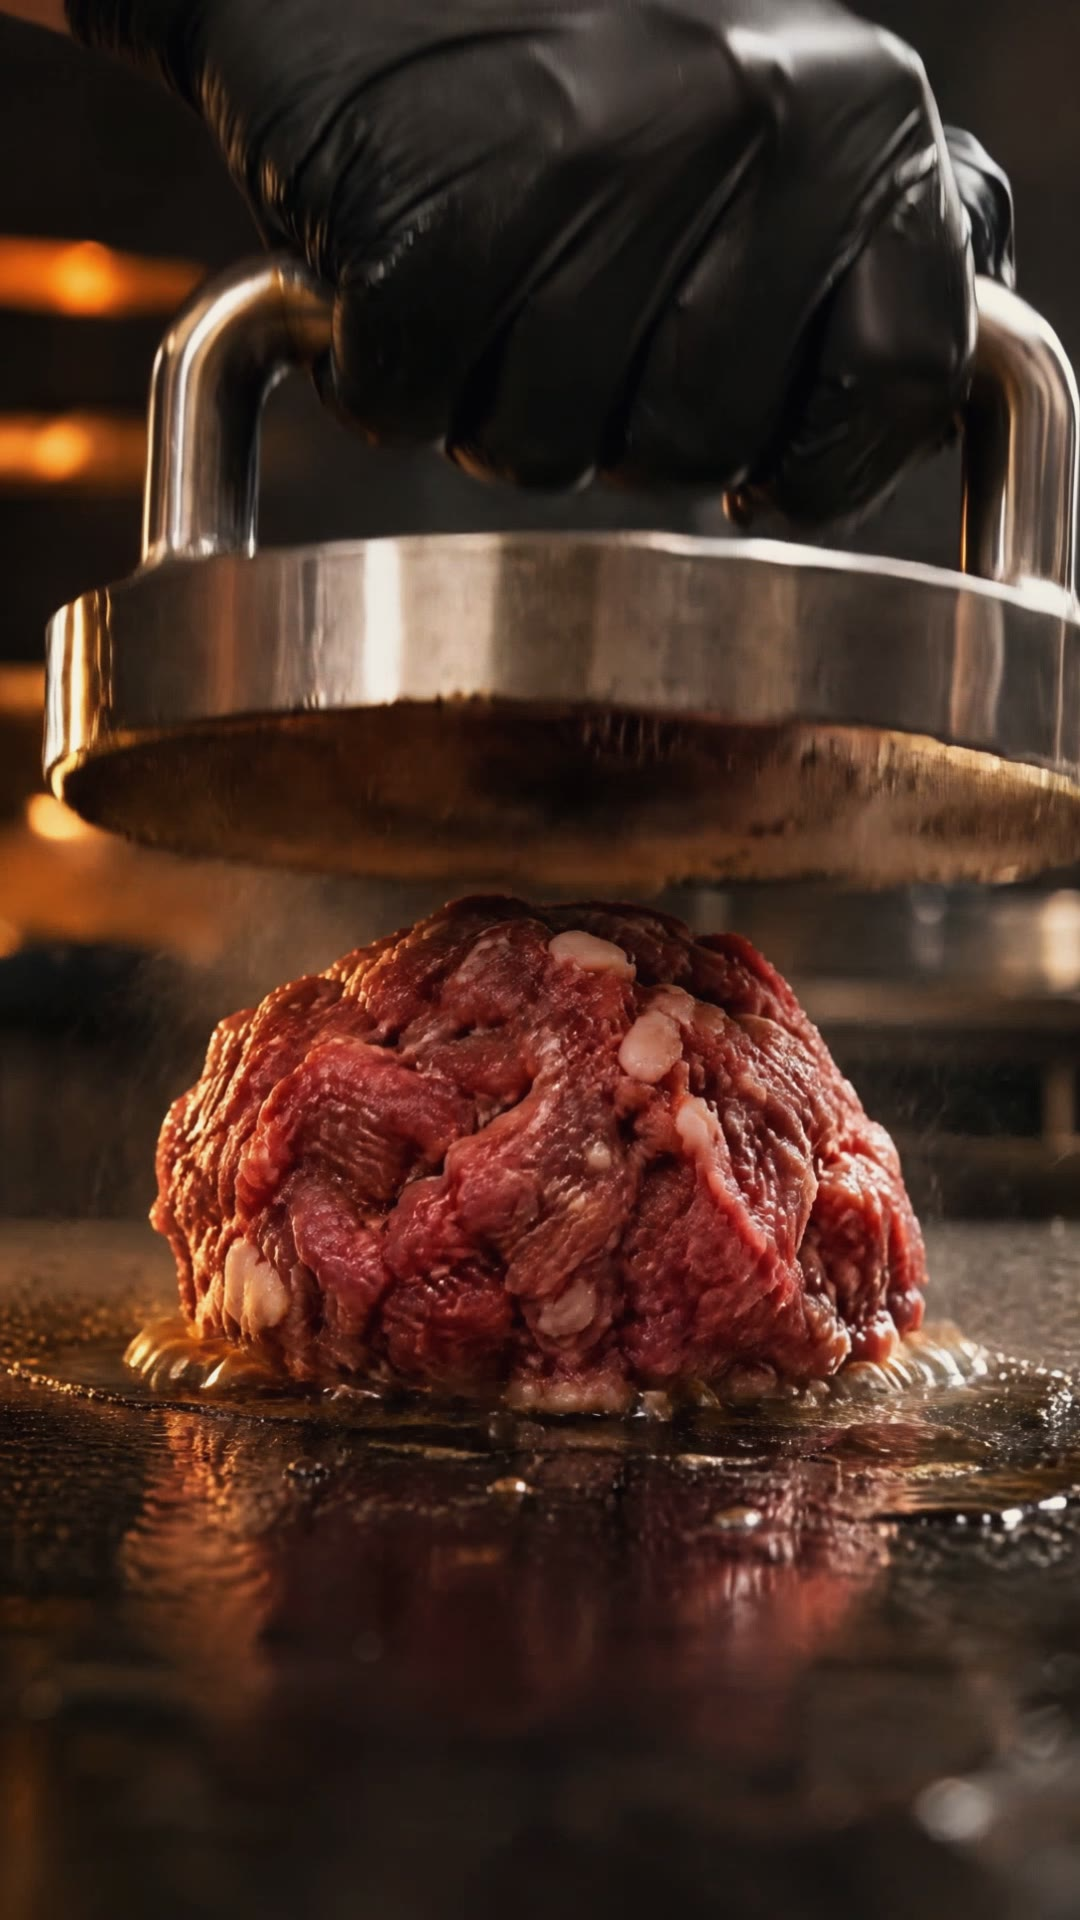
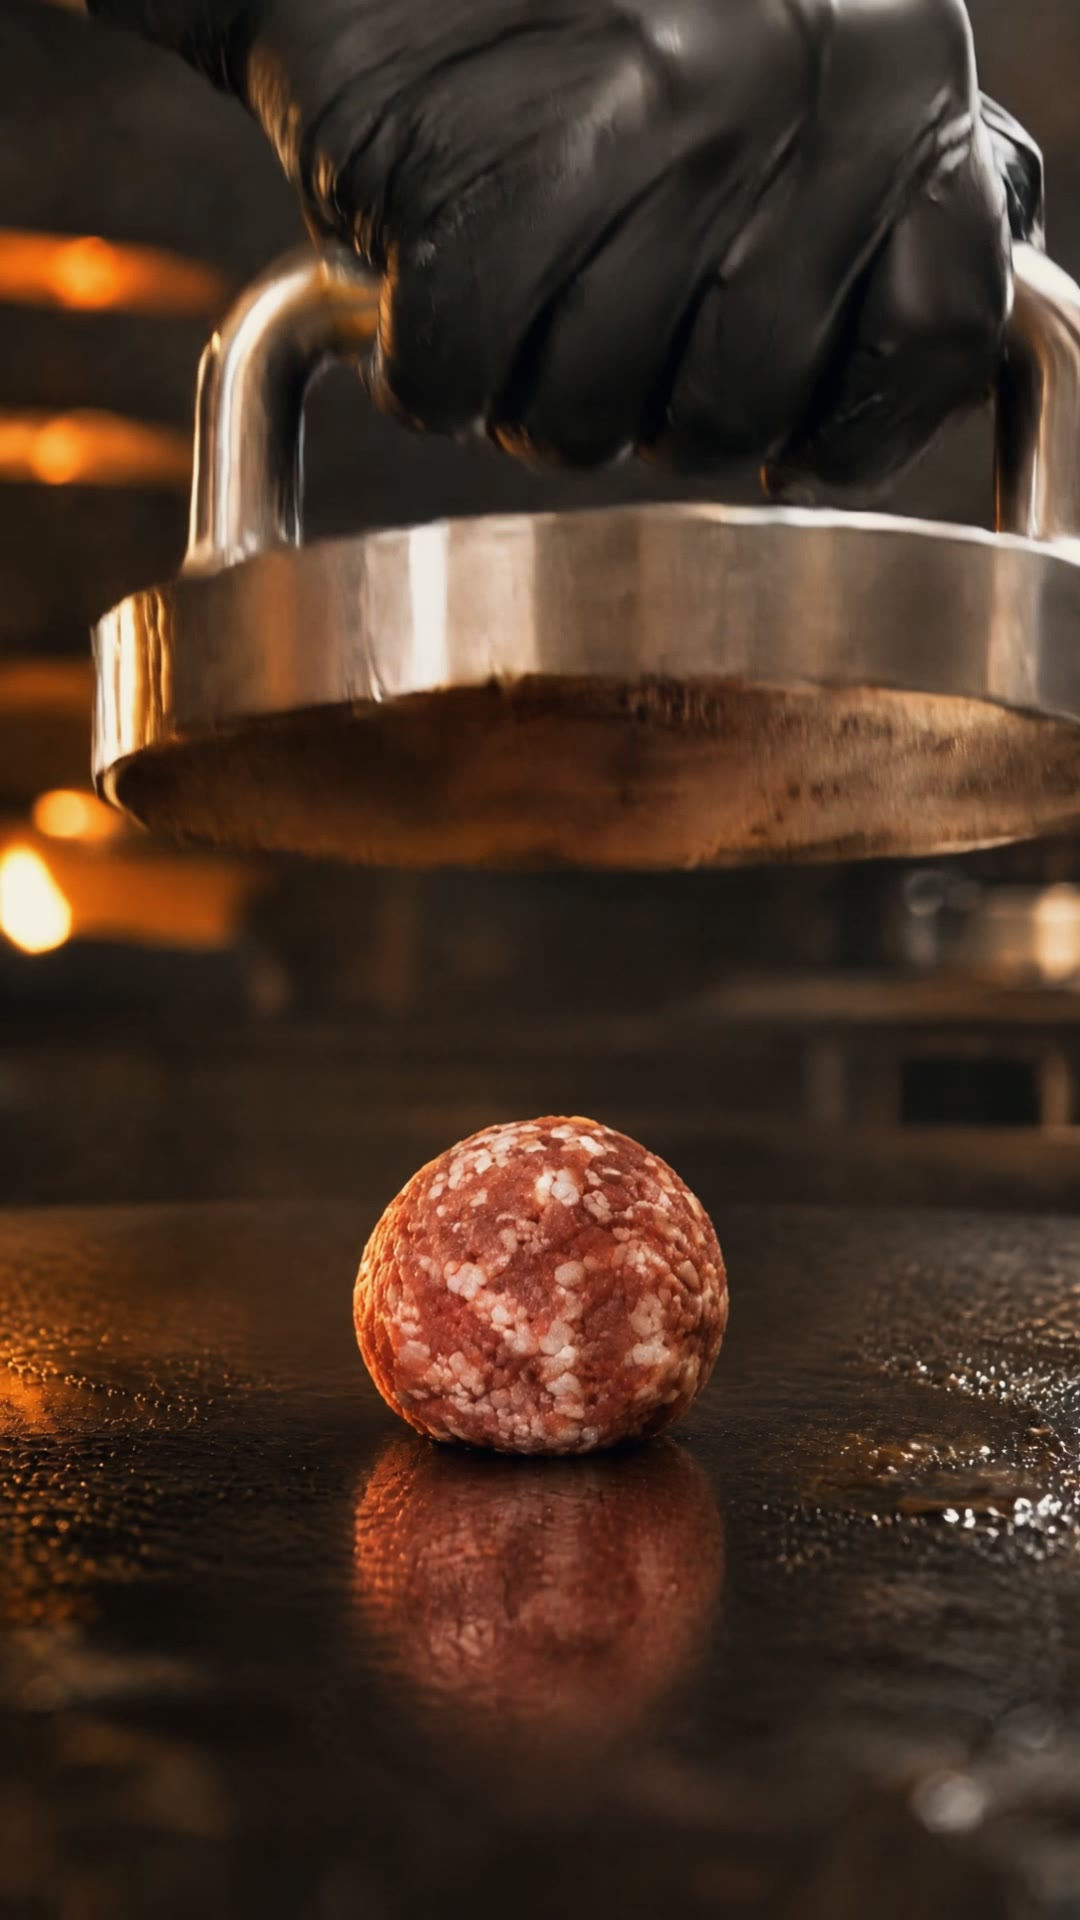
TASH: propagation in progress
Claude-Session: https://claude.ai/code/session_01V6x5TZsAm6X1rqhwpVNZeb

diff --git a/tash/04-launch-ad/src/main.js b/tash/04-launch-ad/src/main.js
@@ -38,7 +38,8 @@ const LY = V ? {
   sting: { logoW: 560, cy: 0.42 },
 };
 // vertical focus used when 1080×1920 footage is cover-cropped into 4:5 (0 = keep top, 1 = keep bottom)
-const FY = { HOOK: 0.20, GLORY: 0.52, BURGER: 0.62, COFFEE: 0.26, RING: 0.36, SPRAY: 0.40, PROD: 0.52, EDIT: 0.5, DIWAN: 0.22, CAFE: 0.30, CAR: 0.24, ASK: 0.12 };
+// COFFEE and RING share one focus so the cup-rim → ring match cut lands on the same pixels in 4:5 too (rim ≈ 524,506)
+const FY = { HOOK: 0.20, GLORY: 0.52, BURGER: 0.62, COFFEE: 0.26, RING: 0.26, SPRAY: 0.40, PROD: 0.52, EDIT: 0.5, DIWAN: 0.22, CAFE: 0.30, CAR: 0.24, ASK: 0.12 };
 const fy = id => (V ? 0.5 : FY[id] ?? 0.5);
 
 // ---------------------------------------------------------------------------------------------- canvas helpers
@@ -161,7 +162,7 @@ const edName = el('div', 'tl', ed, 'TASH_LAUNCH_v12 · 9:16 · 30P'); css(edName
 const TRK = { v2: 78, v1: 120, a1: 206 }, TH = { v2: 30, v1: 72, a1: 64 }, TX0 = 92, TW = LY.ed.w - TX0 - 28;
 for (const [k, lab] of [['v2', 'V2'], ['v1', 'V1'], ['a1', 'A1']]) { const l = el('div', 'tl', ed, lab); css(l, { left: '28px', top: (TRK[k] + TH[k] / 2 - 9) + 'px' }); }
 const ED_CLIPS = [ // the montage, as clips on V1 (widths ∝ duration)
-  ['layl-final_3.00-6.00', 30, 2.0], ['stakk-crown_7.80-9.60', 40, 1.5], ['habba-pour_5.00-6.60', 44, 1.0], ['ring', 20, 1.25], ['layl-spray_6.00-8.00', 30, 2.25],
+  ['layl-final_3.00-6.00', 30, 2.0], ['stakk-crown_7.90-9.40', 37, 1.5], ['habba-pour_5.9667-6.9667', 29, 1.0], ['ring', 20, 1.25], ['layl-spray_6.00-8.00', 30, 2.25],
   ['layl-wire_3.00-6.00', 20, 0.9], ['layl-clay_3.00-6.00', 30, 0.9], ['layl-final_10.50-12.60', 30, 1.4],
 ];
 const edTot = ED_CLIPS.reduce((a, c) => a + c[2], 0);
@@ -288,7 +289,7 @@ function burnFx(k) { // light-sweep burn: the frame burns out (brighter, flatter
 }
 async function drawRing(t) {
   const s = S.RING;
-  try { full(await clip(s, t), 'RING'); } catch { ink(); g.fillStyle = '#c9a24a'; g.beginPath(); g.arc(540, 570, 390, 0, 7); g.lineWidth = 60; g.strokeStyle = '#c9a24a'; g.stroke(); }
+  try { full(await clip(s, t), 'RING'); } catch { ink(); g.fillStyle = '#c9a24a'; g.beginPath(); g.arc(524, 654, 280, 0, 7); g.lineWidth = 60; g.strokeStyle = '#c9a24a'; g.stroke(); }
 }
 async function drawSpray(t) {
   const s = S.SPRAY, img = await clip(s, t);

diff --git a/tash/04-launch-ad/src/built/ring/ring.js b/tash/04-launch-ad/src/built/ring/ring.js
@@ -7,9 +7,12 @@ import { boot, E, clamp, lerp } from '/_system/motion/kit.js';
 
 const q = new URLSearchParams(location.search);
 const W = 1080, H = 1920, DUR = 1.8;
-// match-cut handoff: at t=0 the band's outer edge sits exactly on the cup rim of the previous shot
-// (HABBA pour, measured: centre 560,570 · Ø ≈ 780 px), then settles to the hero framing with an expo tail.
-const A = { cx: 560, cy: 570, r: 390 }, B = { cx: 540, cy: 800, r: 318 };
+// match-cut handoff: at t=0 the band's outer edge sits exactly on the cup rim of the previous shot, then settles to
+// the hero framing with an expo tail. Rim = the photoreal HABBA exit frame (clean f208, launch 5.967), least-squares
+// fit of the cup's outer lip: centre 524,654 · r ≈ 310 px (HABBA hand-off: ≈ 518,658 · r ≈ 312). This is the hand-off's
+// "RING ×0.80, moved ≈ (−46, +98)" done in the ring's own camera, so the plate stays full-frame and sharp.
+// (v1, CGI HABBA: centre 560,570 · r 390.)
+const A = { cx: 524, cy: 654, r: 310 }, B = { cx: 540, cy: 800, r: 318 };
 const PXU = 1920 / (2 * Math.tan(THREE.MathUtils.degToRad(15))); // px per world unit at distance 1 (fov 30)
 
 const renderer = new THREE.WebGLRenderer({ antialias: true, preserveDrawingBuffer: true });

diff --git a/tash/05-concept-ads/02-burger-stakk/src/tools/conform.py b/tash/05-concept-ads/02-burger-stakk/src/tools/conform.py
@@ -34,10 +34,10 @@ BRAND_RED = np.array([226, 59, 46], np.float32) / 255    # #E23B2E
 LOOK = dict(sat=0.93, contrast=0.012, knee=0.84)
 # stage-red sample regions (source px) for the clips shot on the red seamless
 STAGE = {'b3_heel': (100, 100, 980, 700), 'b6_sauce': (0, 0, 200, 500), 'b7_crown': (100, 100, 980, 500)}
-DARK = {'b1_smash', 'b2_crust', 'b4_melt', 'b5_stack'}
+DARK = {'b1_smash_v3', 'b2_crust', 'b4_melt', 'b5_stack'}
 # the frame each clip's correction is measured on (clean stage, nothing falling through the sample region),
 # so every sequence cut from the same clip gets identical numbers
-REF = {'b1_smash': 40, 'b2_crust': 60, 'b3_heel': 30, 'b4_melt': 60, 'b5_stack': 0, 'b6_sauce': 60, 'b7_crown': 60}
+REF = {'b1_smash_v3': 40, 'b2_crust': 60, 'b3_heel': 30, 'b4_melt': 60, 'b5_stack': 0, 'b6_sauce': 60, 'b7_crown': 60}
 
 
 def smooth(e0, e1, x):
